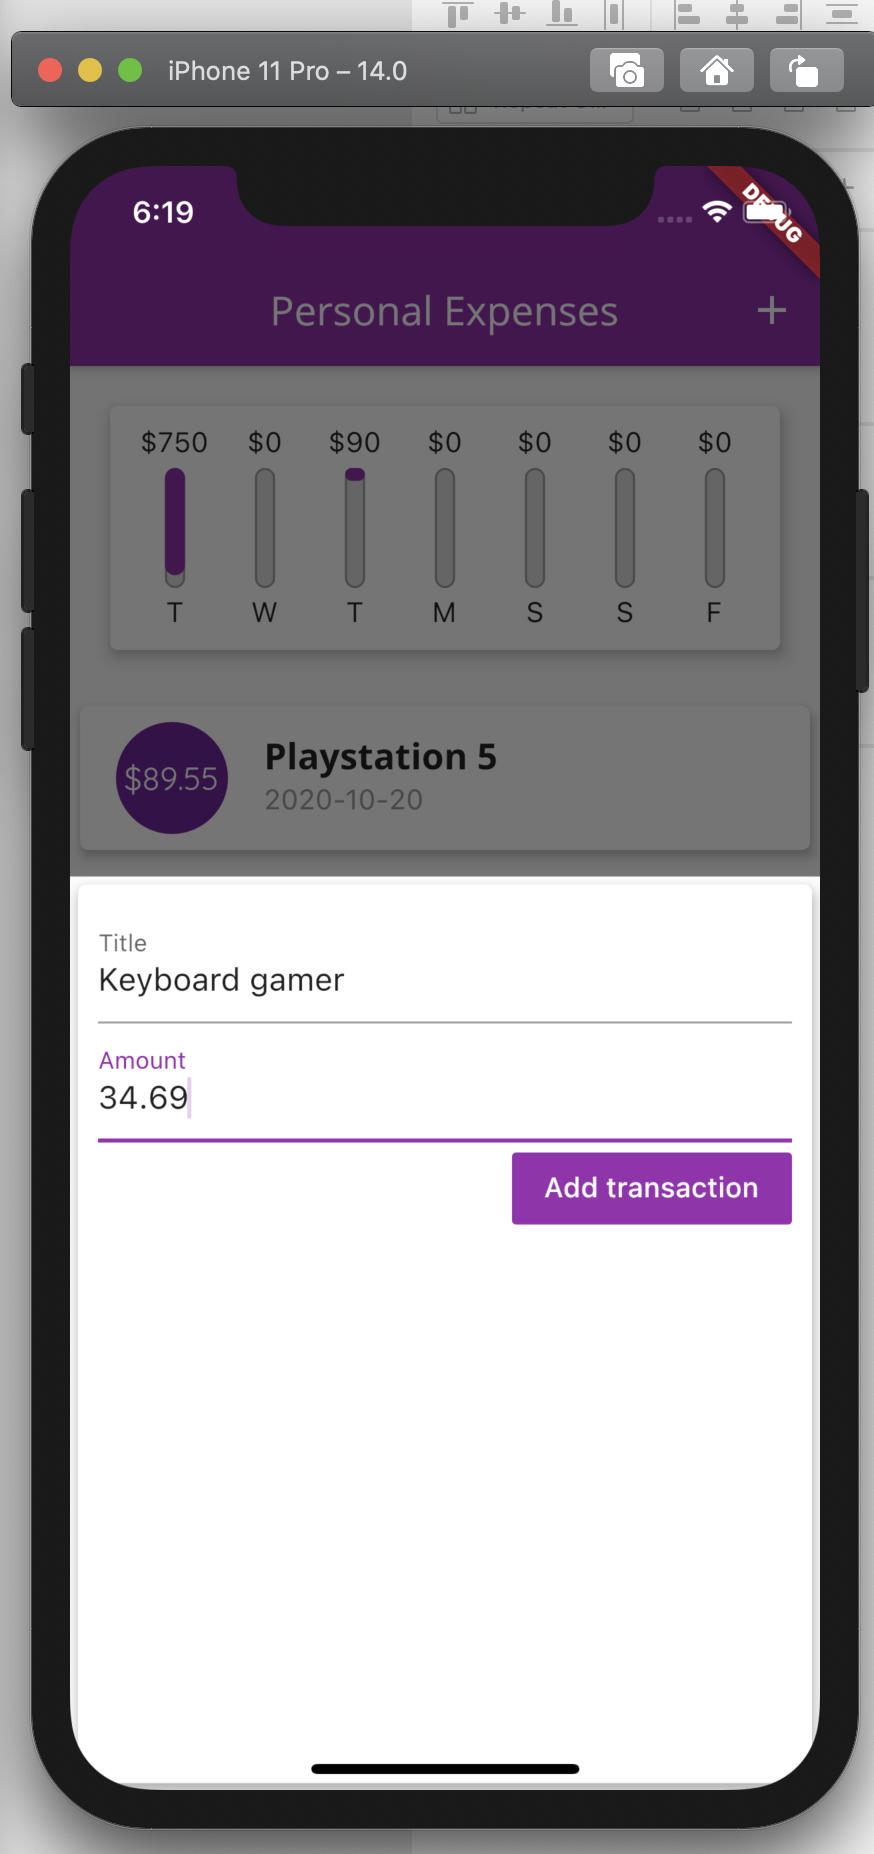
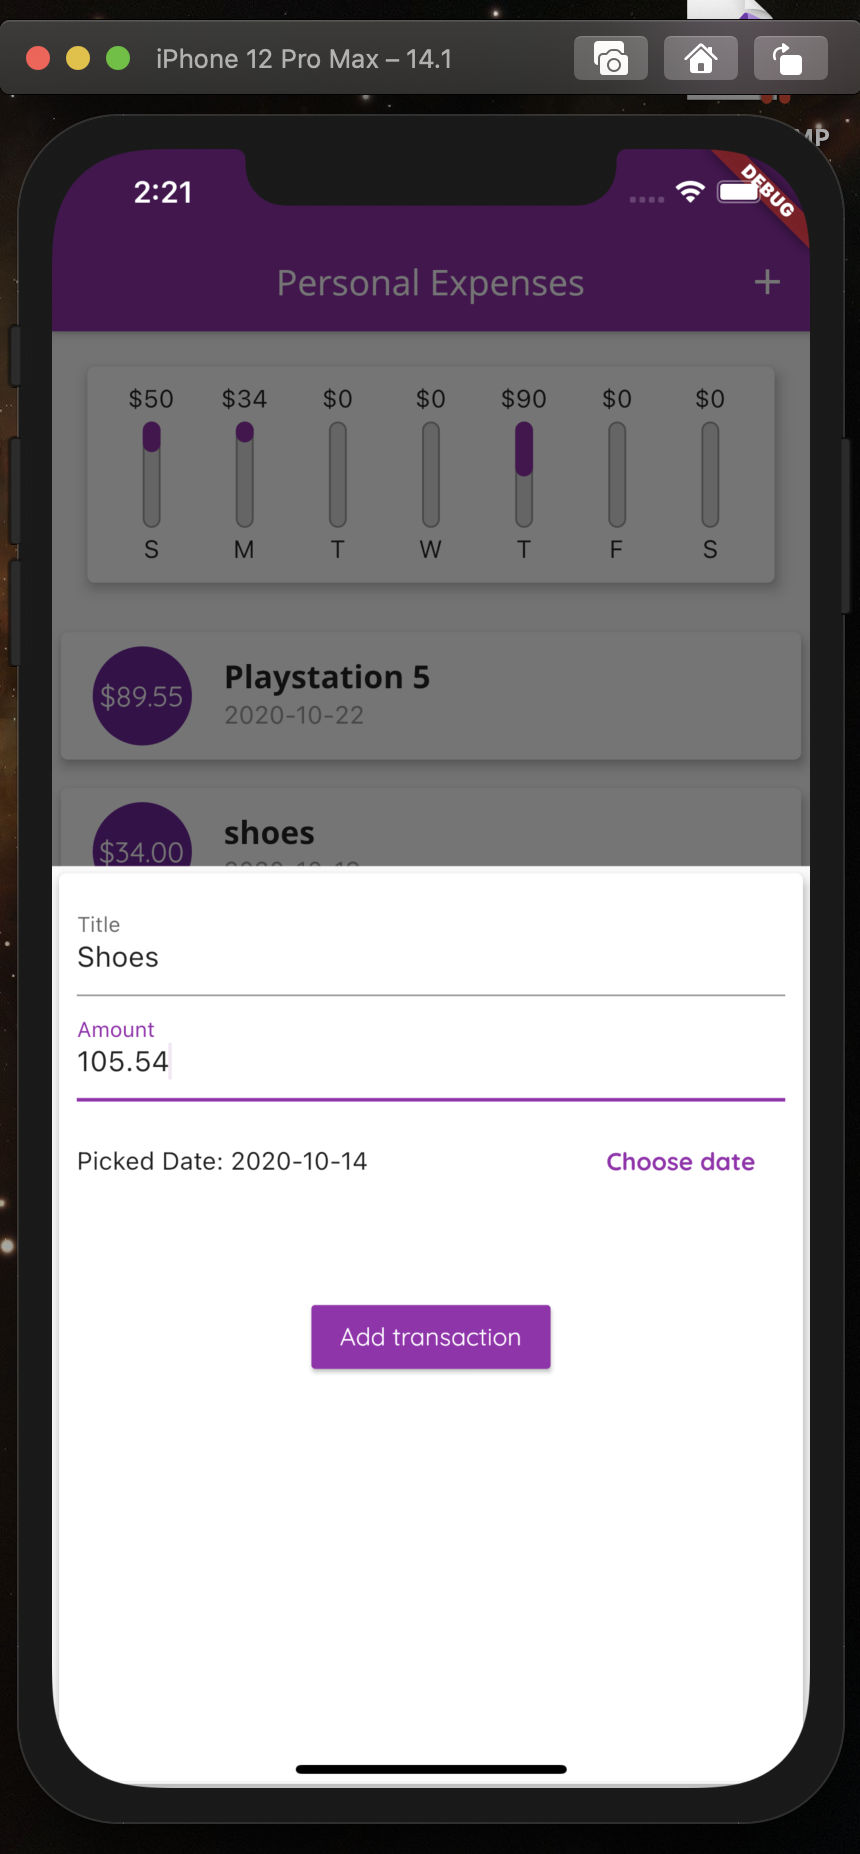
Add IconButton delete to the listview, add Pickup date to the form

Changed region(s): [[0.0, 0.0, 1.0, 1.0]]

diff --git a/lib/widgets/new_transaction.dart b/lib/widgets/new_transaction.dart
@@ -1,4 +1,5 @@
 import 'package:flutter/material.dart';
+import 'package:intl/intl.dart';
 
 class NewTransaction extends StatefulWidget {
   //const NewTransaction({Key key}) //: super(key: key);
@@ -12,22 +13,40 @@ class NewTransaction extends StatefulWidget {
 }
 
 class _NewTransactionState extends State<NewTransaction> {
-  final titleController = TextEditingController();
+  final _titleController = TextEditingController();
 
-  final amountController = TextEditingController();
+  final _amountController = TextEditingController();
 
-  void submitData() {
-    final enteredTitle = titleController.text;
-    final enteredAmount = double.parse(amountController.text);
+  DateTime _selectedDate;
 
-    if (enteredTitle.isEmpty || enteredAmount <= 0) {
+  void _submitData() {
+    final enteredTitle = _titleController.text;
+    final enteredAmount = double.parse(_amountController.text);
+
+    if (enteredTitle.isEmpty || enteredAmount <= 0 || _selectedDate == null) {
       return;
     }
 
-    widget.addTx(enteredTitle, enteredAmount);
+    widget.addTx(enteredTitle, enteredAmount, _selectedDate);
 
     //close the popup
     Navigator.of(context).pop();
+  }
+
+  Future _presentDatePicker() async {
+    showDatePicker(
+      context: context,
+      initialDate: DateTime.now(),
+      firstDate: DateTime(2020),
+      lastDate: DateTime.now(),
+    ).then((pickedDate) {
+      if (pickedDate == null) {
+        return;
+      }
+      setState(() {
+        _selectedDate = pickedDate;
+      });
+    });
   }
 
   @override
@@ -41,23 +60,46 @@ class _NewTransactionState extends State<NewTransaction> {
           children: [
             TextField(
               decoration: InputDecoration(labelText: 'Title'),
-              controller: titleController,
-              onSubmitted: (_) => submitData,
+              controller: _titleController,
+              onSubmitted: (_) => _submitData,
+              //  onChanged: (value) => { },
               // onChanged: (val) => _titleInput = val,
             ),
             TextField(
               keyboardType: TextInputType.numberWithOptions(decimal: true),
 
               decoration: InputDecoration(labelText: 'Amount'),
-              controller: amountController,
-              onSubmitted: (_) => submitData,
+              controller: _amountController,
+              onSubmitted: (_) => _submitData,
               // onChanged: (val) => _amountInput = val,
             ),
-            FlatButton(
-              onPressed: submitData,
-              child: Text('Add transaction'),
-              color: Colors.purple,
-              textColor: Colors.white,
+            Container(
+              height: 70,
+              child: Row(children: [
+                Expanded(
+                  child: Text(_selectedDate == null
+                      ? 'No date choosen'
+                      : 'Picked Date: ${DateFormat('yyyy-MM-dd').format(_selectedDate)}'),
+                ),
+                FlatButton(
+                    onPressed: _presentDatePicker, //() {},
+                    textColor: Theme.of(context).primaryColor,
+                    child: Text(
+                      'Choose date',
+                      style: TextStyle(fontWeight: FontWeight.bold),
+                    ))
+              ]),
+            ),
+            SizedBox(
+              height: 40,
+            ),
+            Center(
+              child: RaisedButton(
+                onPressed: _submitData,
+                child: Text('Add transaction'),
+                color: Theme.of(context).primaryColor,
+                textColor: Theme.of(context).textTheme.button.color,
+              ),
             )
           ],
         ),

diff --git a/lib/main.dart b/lib/main.dart
@@ -21,7 +21,8 @@ class MyApp extends StatelessWidget {
             title: TextStyle(
                 fontFamily: 'OpenSans',
                 fontSize: 18,
-                fontWeight: FontWeight.bold)),
+                fontWeight: FontWeight.bold),
+            button: TextStyle(color: Colors.white)),
         appBarTheme: AppBarTheme(
             textTheme: ThemeData.light().textTheme.copyWith(
                 title: TextStyle(fontFamily: 'OpenSans', fontSize: 20))),
@@ -45,15 +46,21 @@ class _MyHomePageState extends State<MyHomePage> {
         title: 'Playstation 5')
   ];
 
-  void _addNewTransaction(String txtTitle, double txtAmount) {
+  void _addNewTransaction(String txtTitle, double txtAmount, DateTime txtdate) {
     final newTransaction = Transaction(
         id: DateTime.now().toString(),
         amount: txtAmount,
-        date: DateTime.now(),
+        date: txtdate, //DateTime.now(),
         title: txtTitle);
 
     setState(() {
       _userTransactions.add(newTransaction);
+    });
+  }
+
+  void _deleteTransaction(int index) {
+    setState(() {
+      _userTransactions.removeAt(index);
     });
   }
 
@@ -95,7 +102,7 @@ class _MyHomePageState extends State<MyHomePage> {
           crossAxisAlignment: CrossAxisAlignment.stretch,
           children: [
             Chart(_recentTransactions),
-            TransactionList(_userTransactions)
+            TransactionList(_userTransactions, _deleteTransaction)
           ],
         ),
       ),

diff --git a/lib/widgets/transaction_list.dart b/lib/widgets/transaction_list.dart
@@ -4,7 +4,8 @@ import '../models/transaction.dart';
 
 class TransactionList extends StatelessWidget {
   final List<Transaction> transactions;
-  TransactionList(this.transactions);
+  final Function deleteTransaction;
+  TransactionList(this.transactions, this.deleteTransaction);
 
   @override
   Widget build(BuildContext context) {
@@ -52,6 +53,11 @@ class TransactionList extends StatelessWidget {
                     subtitle: Text(
                       DateFormat('yyyy-MM-dd').format(transactions[index].date),
                       style: TextStyle(color: Colors.grey),
+                    ),
+                    trailing: IconButton(
+                      icon: Icon(Icons.delete),
+                      color: Theme.of(context).errorColor,
+                      onPressed: () => deleteTransaction(index),
                     ),
                   ),
                 );

diff --git a/lib/widgets/chart.dart b/lib/widgets/chart.dart
@@ -28,7 +28,7 @@ class Chart extends StatelessWidget {
         'day': DateFormat.E().format(weekDay).substring(0, 1),
         'amount': totalSum,
       };
-    });
+    }).reversed.toList();
   }
 
   double get totalSpending {
